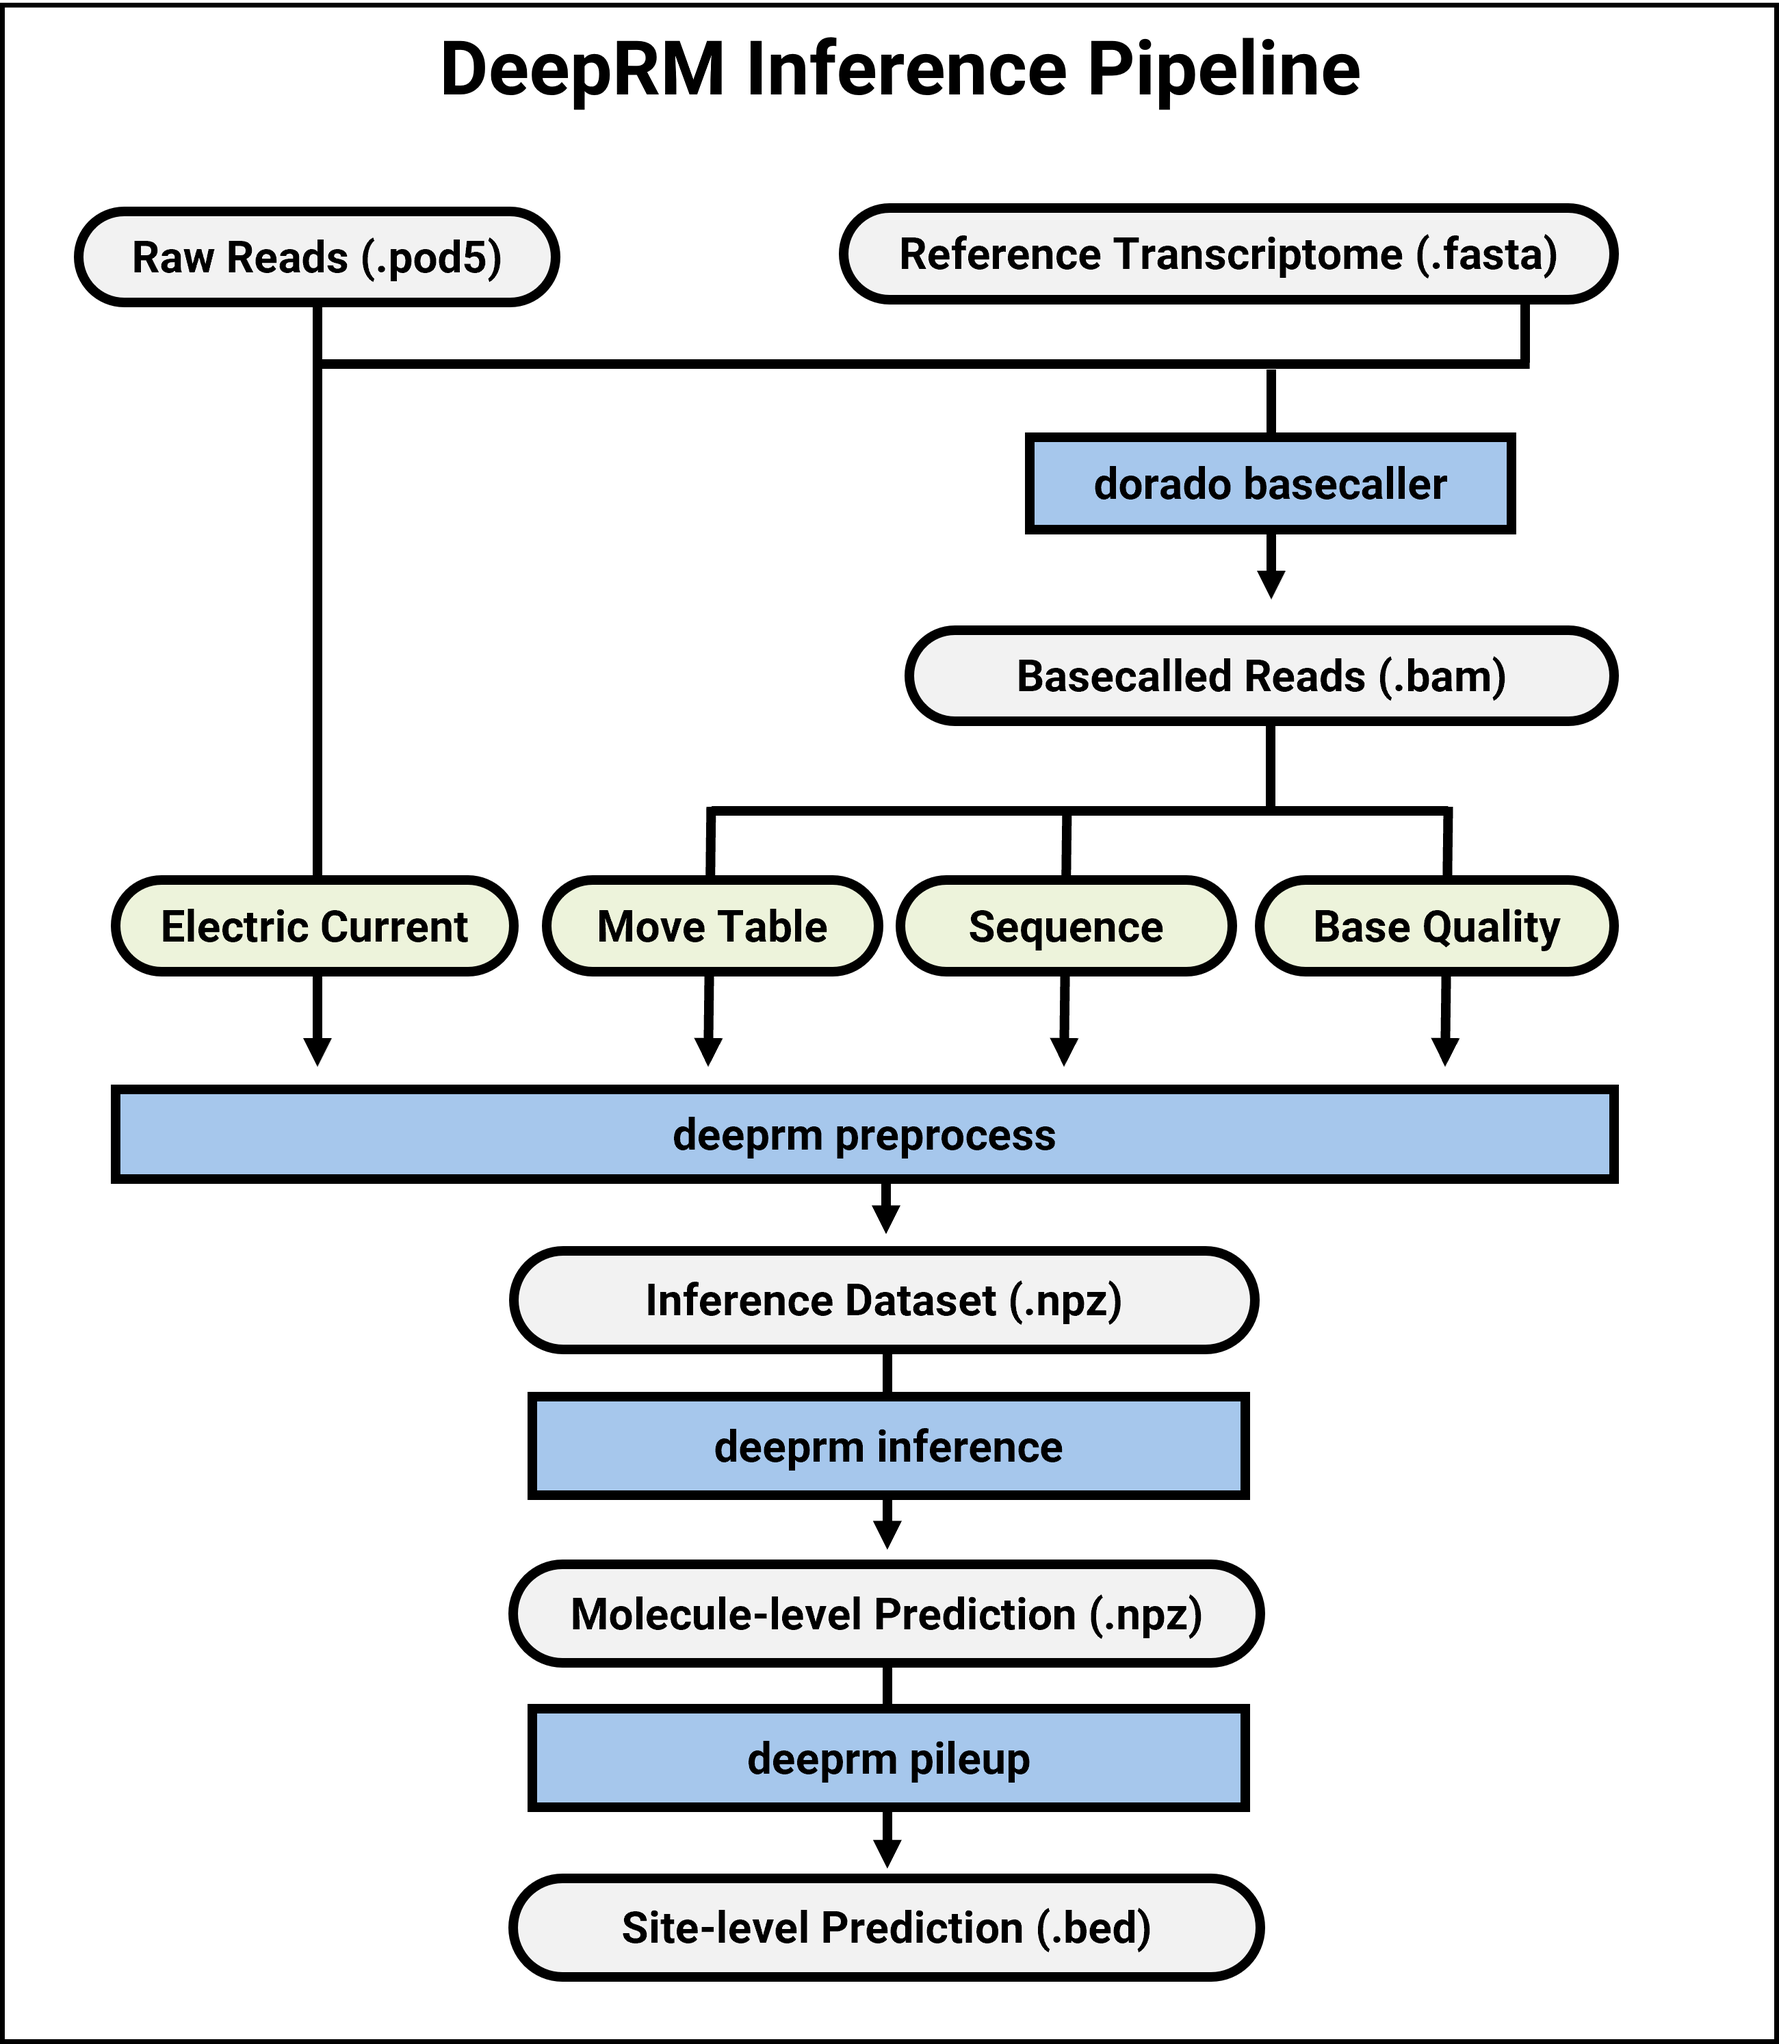
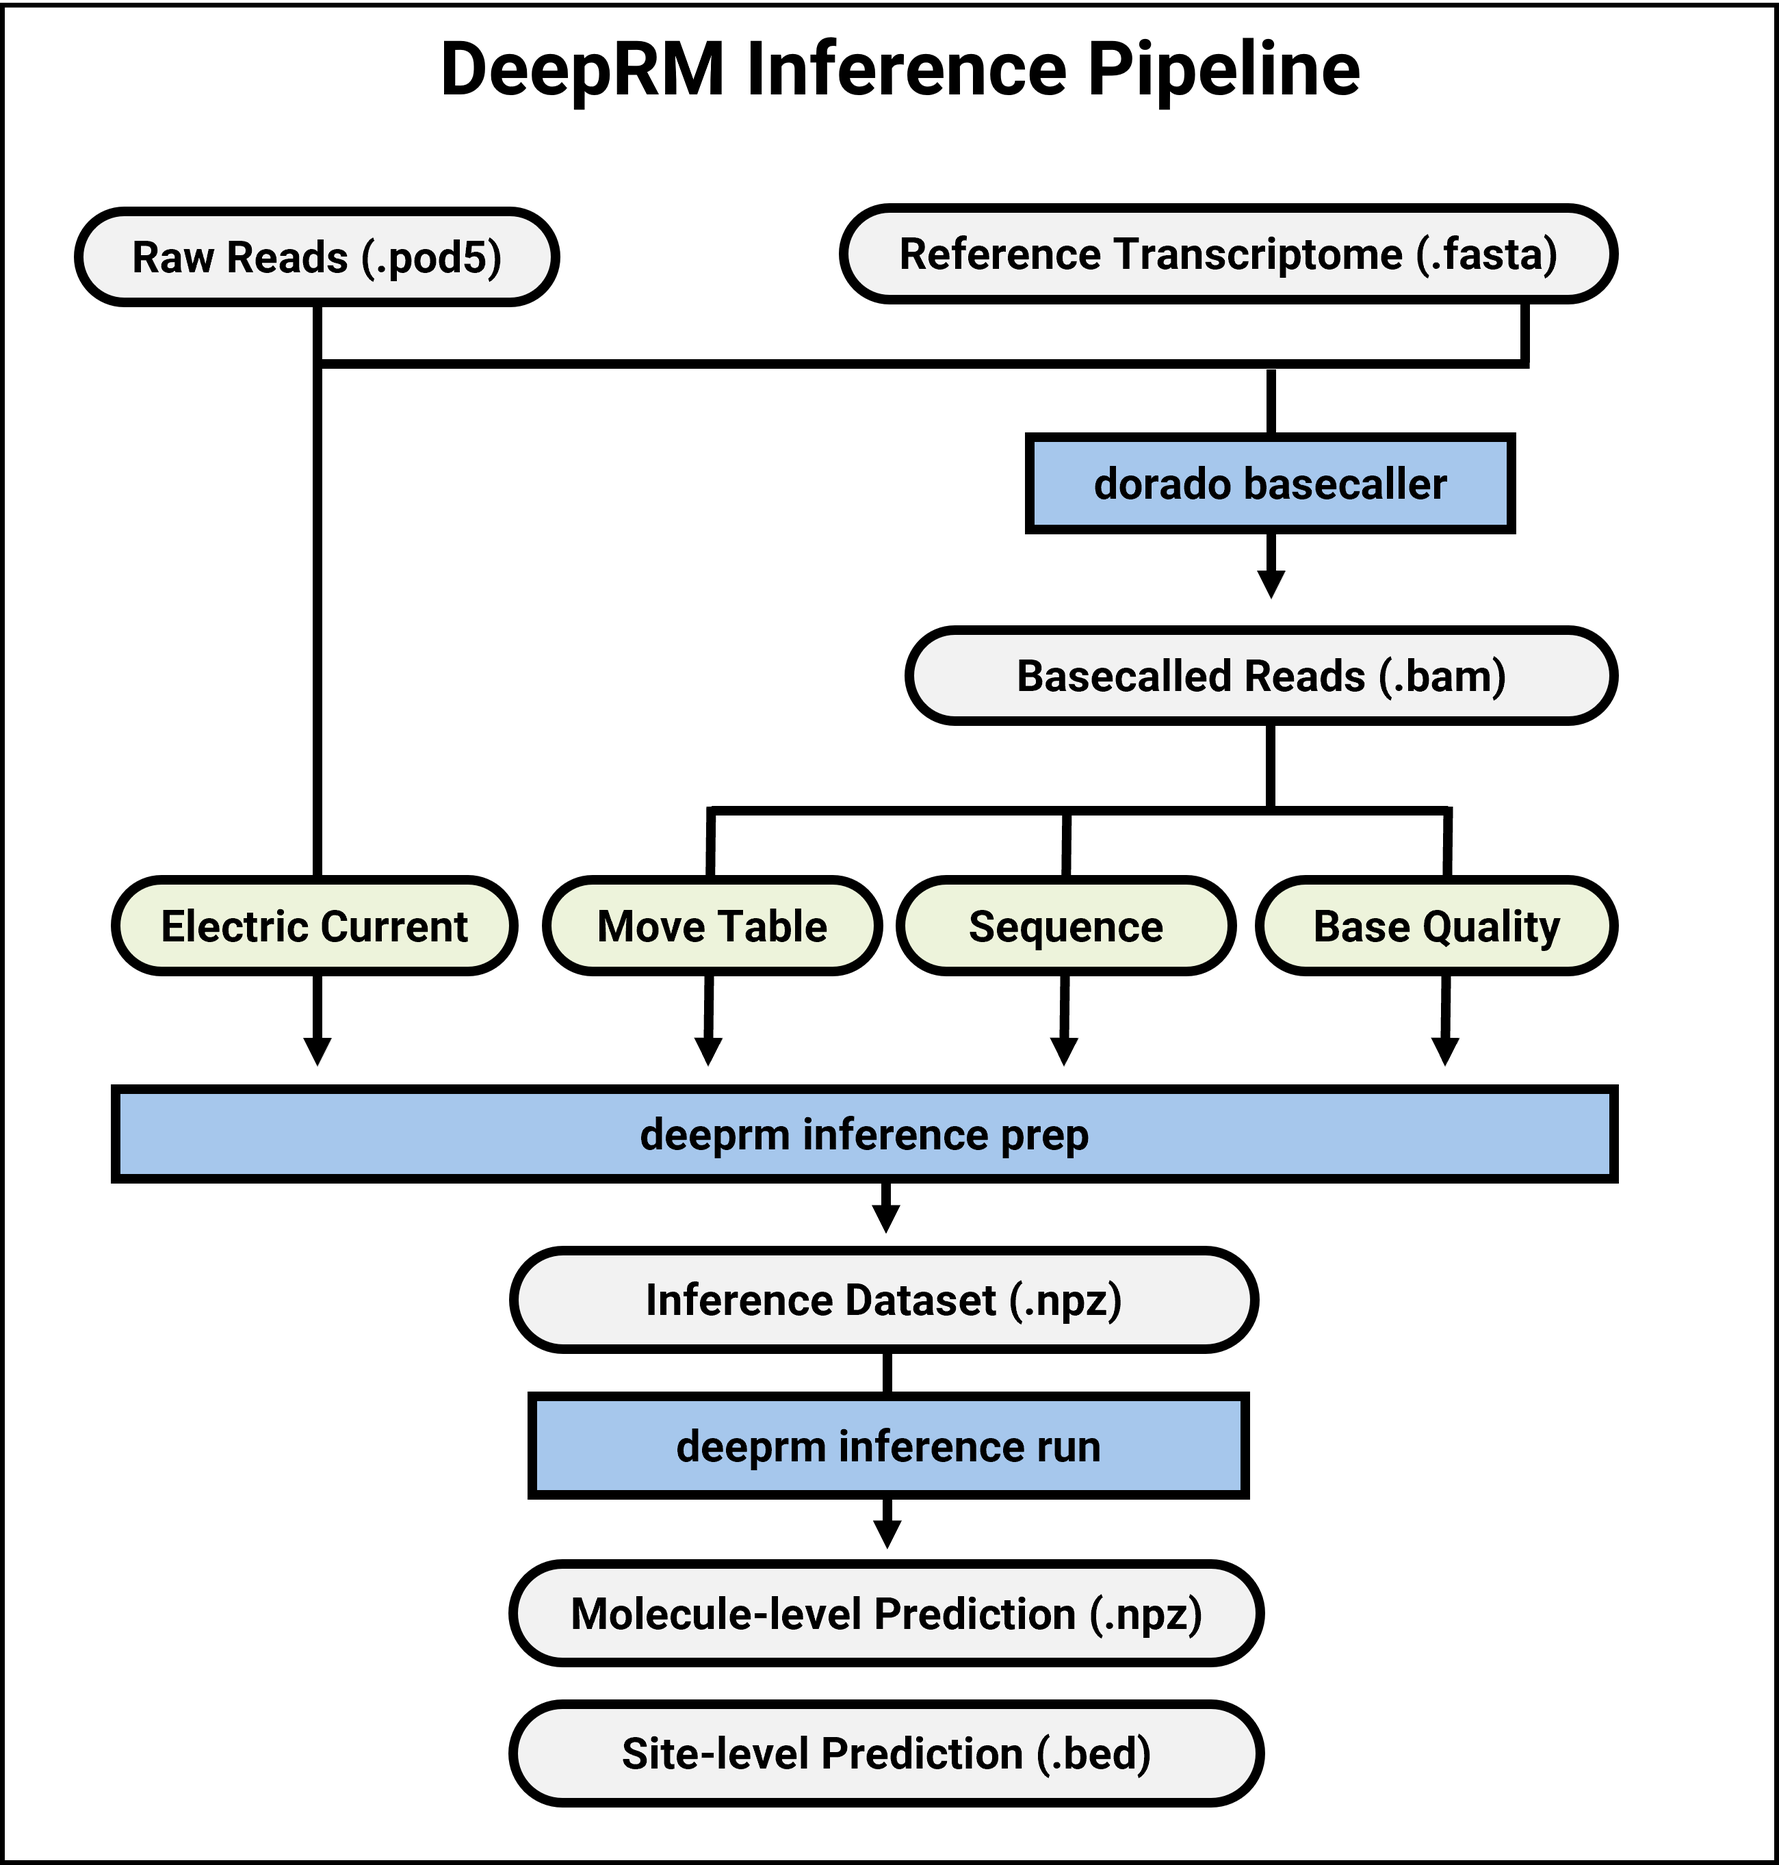
License update

diff --git a/src/deeprm/inference/inference_preprocess.py b/src/deeprm/inference/inference_preprocess.py
@@ -17,6 +17,7 @@ import gc
 import glob
 import multiprocessing as mp
 import os
+import uuid
 
 import numpy as np
 import pandas as pd
@@ -296,15 +297,16 @@ def normalise_trim_segment_signal(signal, move, sp, ts, ns, quantile_a, quantile
     return signal
 
 
-def parse_pod5(pod5_path):
+def parse_pod5(pod5_path, read_ids):
     """
     Read signals and calibration from a POD5 file and return as DataFrame.
 
     Args:
         pod5_path (str): file path to the POD5 file.
+        read_ids (list): list of read IDs to extract signals for. (list of UUIDs)
 
     Returns:
-        pandas.DataFrame: with columns ['signal', 'offset', 'scale'], indexed by 'read_id'.
+        pd.DataFrame: with columns ['signal', 'offset', 'scale'], indexed by 'read_id'.
     """
     signal_list = []
     offset_list = []
@@ -312,12 +314,12 @@ def parse_pod5(pod5_path):
     id_list = []
 
     with pod5.Reader(pod5_path) as reader:
-        for record in reader:
+        for i, record in enumerate(reader.reads(read_ids)):
             try:
                 signal_arr = record.signal
                 offset = record.calibration.offset
                 scale = record.calibration.scale
-                rid = str(record.read_id)
+                rid = record.read_id
             except Exception:
                 continue
 
@@ -370,6 +372,7 @@ def parse_bam(pid, n_procs, n_thread, bam_data, bam_path, bq_cutoff, boi):
         if len(ap) == 0:
             continue
         read_id = str(read.get_tag("pi")) if read.has_tag("pi") else str(read.query_name)
+        read_id = uuid.UUID(read_id)
         ts = read.get_tag("ts") if read.has_tag("ts") else 0
         ns = read.get_tag("ns") if read.has_tag("ns") else 0
         sp = read.get_tag("sp") if read.has_tag("sp") else 0
@@ -445,25 +448,26 @@ def segment_normalize_signal(
     output_index = 0
 
     for pod5_path in tqdm.tqdm(pod5_paths):
-        try:
-            pod5_df = parse_pod5(pod5_path)
-        except Exception as e:
-            log.warning(f"{e}")
-            log.info(f"Corrupted POD5 file: {pod5_path}")
-            continue
-        if len(pod5_df) == 0:
-            continue
-        valid_index = pod5_df.index.intersection(bam_df.index)
-        if len(valid_index) == 0:
-            continue
-        pod5_df = pd.merge(pod5_df, bam_df.loc[valid_index], left_index=True, right_index=True, how="inner")
-        if len(pod5_df) == 0:
-            continue
-        split_points = np.array_split(np.arange(len(pod5_df)), max(1, np.ceil(len(pod5_df) // process_once)))
-        pod5_df[["r_pos", "ref", "strand"]] = pod5_df[["r_pos", "ref", "strand"]].astype(np.int64)
-        for signal_df in [pod5_df.iloc[s[0] : s[-1] + 1] for s in split_points]:
+        with pod5.Reader(pod5_path) as reader:
+            read_ids = reader.read_ids
+
+        read_id_split = np.array_split(np.array(read_ids), np.ceil(len(read_ids) / process_once))
+
+        for read_ids in read_id_split:
+            try:
+                signal_df = parse_pod5(pod5_path, read_ids)
+            except Exception:
+                print(f"Corrupted POD5 file: {pod5_path}")
+                continue
             if len(signal_df) == 0:
                 continue
+            valid_index = signal_df.index.intersection(bam_df.index)
+            if len(valid_index) == 0:
+                continue
+            signal_df = pd.merge(signal_df, bam_df.loc[valid_index], left_index=True, right_index=True, how="inner")
+            if len(signal_df) == 0:
+                continue
+
             output_index += 1
             out_prefix = f"{token_output_path}/{pid}-{output_index}"
             signal_df["dwell_token"] = signal_df["mv"].apply(lambda x: move_to_dwell(x, 0.2, 0.8, 0.5, 1.5, sampling))
@@ -486,7 +490,7 @@ def segment_normalize_signal(
 
             ## Explode read-level data to base-level data
             signal_df = (
-                signal_df[["bq", "seq", "signal", "dwell_token", "ref", "ap"]].explode("ap").reset_index(drop=True)
+                signal_df[["bq", "seq", "signal", "dwell_token", "ref", "ap"]].explode("ap").reset_index(drop=False)
             )
             if len(signal_df) == 0:
                 continue
@@ -498,7 +502,7 @@ def segment_normalize_signal(
             signal_df["start_pos"] = signal_df["q_pos"] - cb_half_len
             signal_df["end_pos"] = signal_df["q_pos"] + cb_half_len + 1
             signal_df["q_len"] = signal_df["seq"].apply(len)
-            signal_df["label_id"] = (signal_df["ref"] * label_div + signal_df["r_pos"]) * signal_df["strand"]
+            signal_df["label_id"] = (signal_df["ref"] * label_div + signal_df["r_pos"] + 1) * signal_df["strand"]
 
             # filter by context
             signal_df = signal_df[
@@ -540,7 +544,16 @@ def segment_normalize_signal(
                 continue
             signal_df["segment_len_arr"] = signal_df["segment_len_arr"].apply(lambda x: x[trim:-trim])
             signal_df = signal_df[
-                ["segment_len_arr", "signal", "motif", "dwell_motor_token", "dwell_pore_token", "bq", "label_id"]
+                [
+                    "read_id",
+                    "segment_len_arr",
+                    "signal",
+                    "motif",
+                    "dwell_motor_token",
+                    "dwell_pore_token",
+                    "bq",
+                    "label_id",
+                ]
             ].copy()
             signal_df.rename(columns={"motif": "kmer_token", "signal": "signal_token", "bq": "bq_token"}, inplace=True)
             signal_df["segment_len_arr"] = signal_df["segment_len_arr"].apply(lambda x: x.astype(np.uint16))
@@ -598,6 +611,7 @@ def save_npz(save_path, df):
     dwell_pore_token = np.stack(df["dwell_pore_token"].values)
     bq_token = np.stack(df["bq_token"].values)
     label_id = df["label_id"].values
+    read_id = np.frombuffer(b"".join(u.bytes for u in df["read_id"].values), dtype=np.int64).reshape(-1, 2)
     np.savez_compressed(
         save_path,
         segment_len_arr=segment_len_arr,
@@ -607,5 +621,6 @@ def save_npz(save_path, df):
         dwell_pore_token=dwell_pore_token,
         bq_token=bq_token,
         label_id=label_id,
+        read_id=read_id,
     )
     return None
